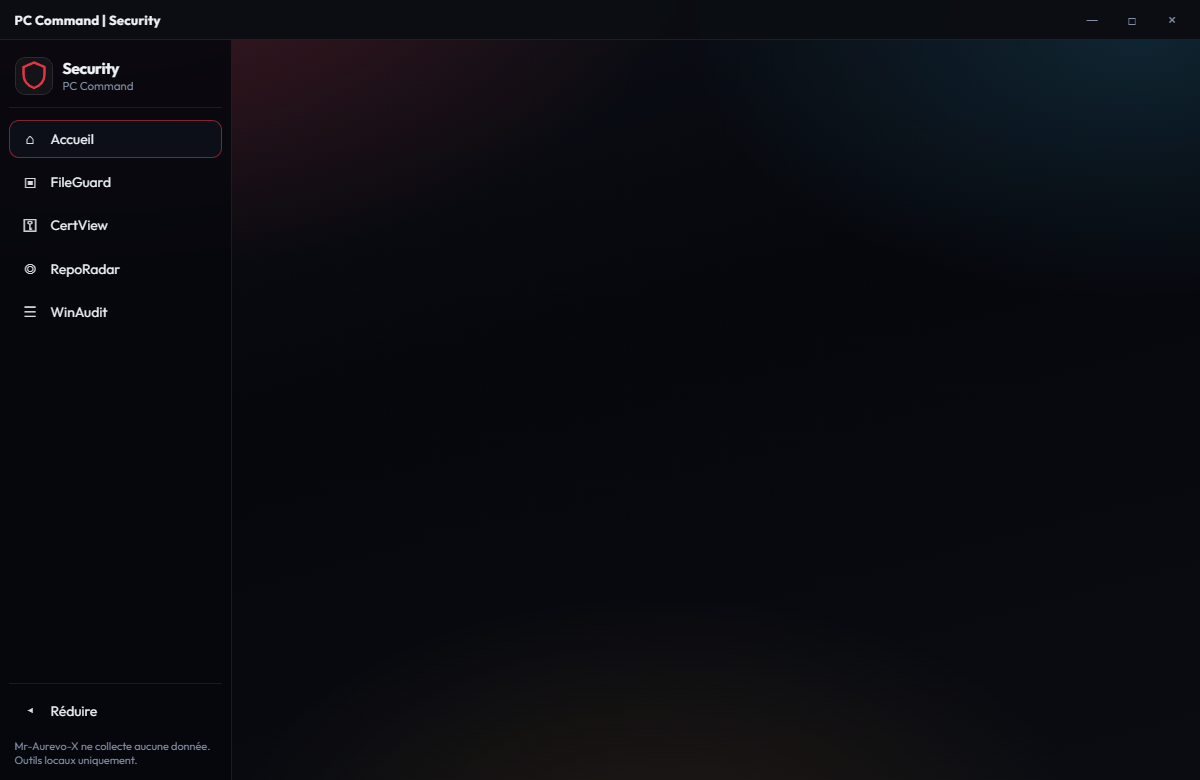
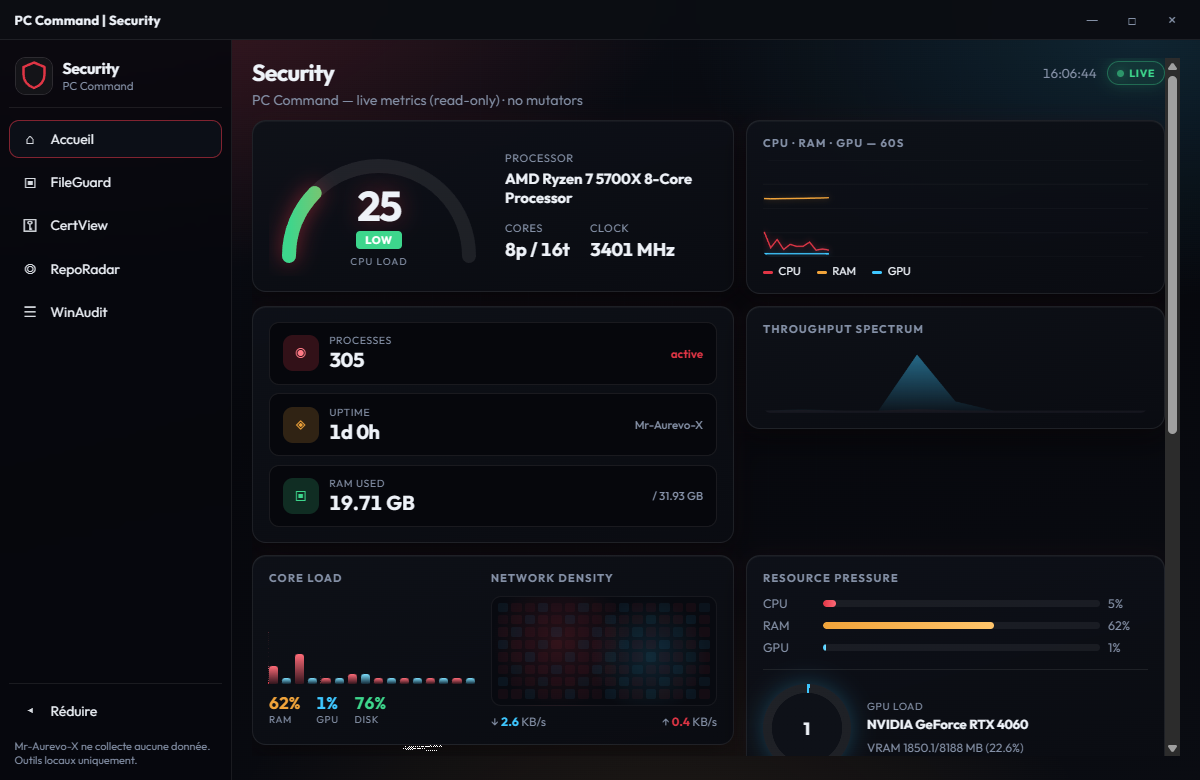
release: v1.4.7 hub boot hardening, update check fix, screenshots
- Boot try/catch + SHOW_VIEW per hub
- hub_update: semver compare, skip dev-tree update banner
- Recaptured validated dashboard/module PNGs

diff --git a/ui/app.js b/ui/app.js
@@ -206,6 +206,7 @@ async function loadVersionAndUpdates() {
   try {
     if (typeof a.check_for_update === "function") {
       const u = await a.check_for_update();
+      if (u?.fromSourceTree) return;
       if (u?.needsAuth) {
         showUpdateBanner(
           {
@@ -281,13 +282,46 @@ function wireSidebar() {
   });
 }
 
+async function waitPywebviewReady(timeoutMs = 8000) {
+  if (window.pywebview && window.pywebview.api) return;
+  await new Promise((resolve) => {
+    const timer = setTimeout(resolve, timeoutMs);
+    window.addEventListener(
+      "pywebviewready",
+      () => {
+        clearTimeout(timer);
+        resolve();
+      },
+      { once: true }
+    );
+  });
+}
+
+function showBootError(err) {
+  const root = document.getElementById("hubView");
+  if (!root) return;
+  const msg = String((err && err.message) || err || "Erreur inconnue")
+    .replace(/&/g, "&amp;")
+    .replace(/</g, "&lt;");
+  root.innerHTML =
+    '<div class="hub-boot-error" role="alert" style="padding:1.5rem;color:#f5f5f5">' +
+    "<strong>Erreur au démarrage</strong>" +
+    `<p style="margin-top:0.5rem;opacity:0.85">${msg}</p></div>`;
+}
+
 async function boot() {
-  wireSidebar();
-  await waitApi();
-  await showView("dashboard");
-  const bootView = (location.hash || "").replace(/^#/, "").trim();
-  if (bootView && bootView !== "dashboard") await showView(bootView);
-  void loadVersionAndUpdates();
+  try {
+    wireSidebar();
+    await waitPywebviewReady();
+    await waitApi();
+    await showView("dashboard");
+    const bootView = (location.hash || "").replace(/^#/, "").trim();
+    if (bootView && bootView !== "dashboard") await showView(bootView);
+    void loadVersionAndUpdates();
+  } catch (err) {
+    console.error("[Hub boot]", err);
+    showBootError(err);
+  }
 }
 
 if (document.readyState === "loading") {

diff --git a/ui/dashboard.js b/ui/dashboard.js
@@ -5,7 +5,7 @@
 const HUB_LABEL = "Security";
 const HUB_BLURB = "PC Command — live metrics (read-only) · no mutators";
 const SHOW_VIEW =
-  () => window.HubShell?.showView || window.HubSysteme?.showView;
+  () => window.HubSecurite?.showView || window.HubShell?.showView;
 
 const FALLBACK_MODULES = [
   { id: "fileguard", label: "FileGuard", desc: "Verrous de fichiers, audit ACL NTFS, prise de possession", ico: "FG" },

diff --git a/backend/hub_update.py b/backend/hub_update.py
@@ -202,12 +202,24 @@ def expected_asset_sha256(catalog: dict | None, name: str) -> tuple[str | None, 
     return (raw or None), True
 
 
+def running_from_dev_central_tree(path: Path) -> bool:
+    lowered = str(Path(path).resolve()).lower().replace("/", "\\")
+    return "\\dev central tree\\" in lowered
+
+
 def running_from_source_tree(path: Path) -> bool:
     lowered = str(Path(path).resolve()).lower().replace("/", "\\")
-    needle = f"\\{lowered}\\"
-    if "\\dev central tree\\" not in needle:
+    if not running_from_dev_central_tree(path):
         return False
-    return "\\01_hubs\\" in needle or "\\atelierwindows\\" in needle
+    if "\\01_hubs\\" in lowered or "\\atelierwindows\\" in lowered:
+        return True
+    # Launch-Hub-*.exe rebuilt at Dev Central Tree root (dev / smoke / capture)
+    if getattr(sys, "frozen", False):
+        exe = Path(sys.executable).resolve()
+        name = exe.name.lower()
+        if name.startswith("launch-hub-") and name.endswith(".exe"):
+            return exe.parent.resolve() == Path(path).resolve()
+    return False
 
 
 def _assert_allowed_url(url: str) -> None:
@@ -257,6 +269,31 @@ def normalize_version(raw: str | None) -> str:
     if s and s[0].isdigit():
         return f"v{s}"
     return s
+
+
+def _version_tuple(raw: str | None) -> tuple[int, ...]:
+    s = normalize_version(raw)
+    if s.lower().startswith("v"):
+        s = s[1:]
+    parts: list[int] = []
+    for piece in s.replace("-", ".").split("."):
+        if not piece:
+            continue
+        digits = ""
+        for ch in piece:
+            if ch.isdigit():
+                digits += ch
+            else:
+                break
+        if not digits:
+            break
+        parts.append(int(digits))
+    return tuple(parts) if parts else (0,)
+
+
+def is_remote_newer(remote: str | None, local: str | None) -> bool:
+    """True only when remote semver is strictly greater than local."""
+    return _version_tuple(remote) > _version_tuple(local)
 
 
 def format_version_bracket(version: str | None) -> str:
@@ -401,7 +438,9 @@ def check_hub_update(
     auto_update = read_auto_update_setting(*roots, default_install_dir())
     from_sot = running_from_source_tree(app_dir)
     if getattr(sys, "frozen", False):
-        from_sot = from_sot or running_from_source_tree(Path(sys.executable).parent)
+        exe_parent = Path(sys.executable).resolve().parent
+        from_sot = from_sot or running_from_source_tree(exe_parent)
+        from_sot = from_sot or running_from_dev_central_tree(exe_parent)
 
     try:
         release = json.loads(_api_request(api_latest_url(repo), tok).decode("utf-8"))
@@ -445,7 +484,7 @@ def check_hub_update(
 
     assets = {str(a.get("name") or ""): a for a in (release.get("assets") or [])}
     has_asset = asset_name in assets
-    update_available = bool(remote) and (local or "") != remote and has_asset
+    update_available = bool(remote) and is_remote_newer(remote, local) and has_asset
     can_self = bool(update_available and has_asset and not from_sot)
 
     return {
@@ -765,9 +804,12 @@ def apply_hub_update(
     for marker in ("\\dev central tree\\", "\\01_hubs\\", "\\atelierwindows\\"):
         if marker in f"\\{lowered}\\":
             return {
-                "ok": False,
-                "error": (
-                    "Mise à jour refusée : le hub tourne depuis le dépôt source. "
+                "ok": True,
+                "skipped": True,
+                "updated": False,
+                "reason": "fromSourceTree",
+                "message": (
+                    "Mise à jour ignorée : hub lancé depuis le dépôt source. "
                     f"Installe via Install-Easy sous %LOCALAPPDATA%\\{HUB_INSTALL_DIR}."
                 ),
             }
